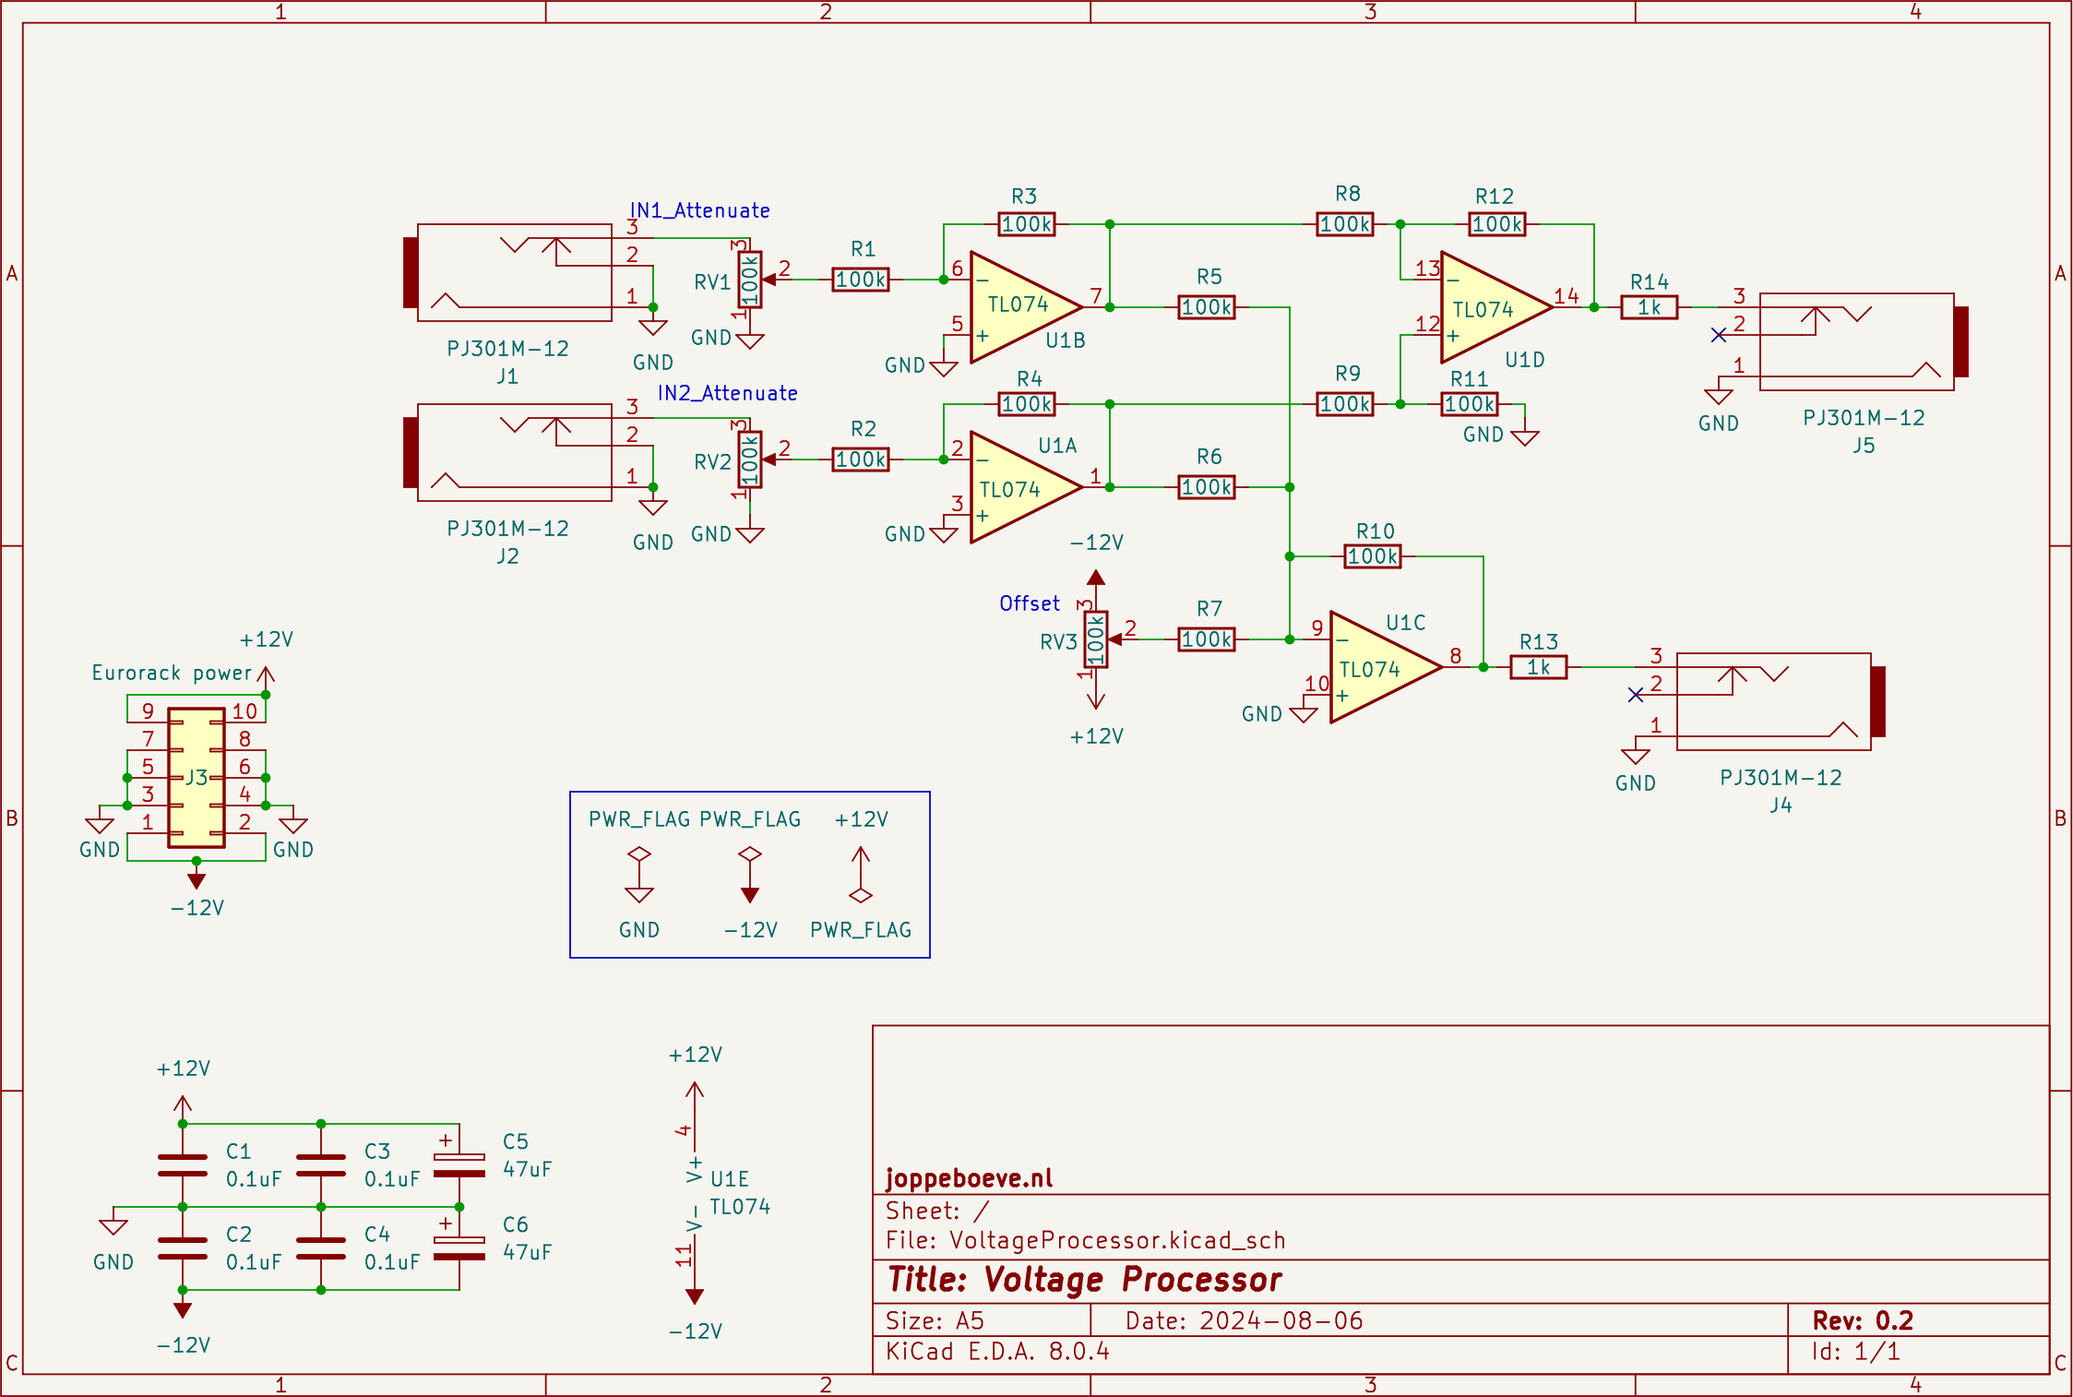
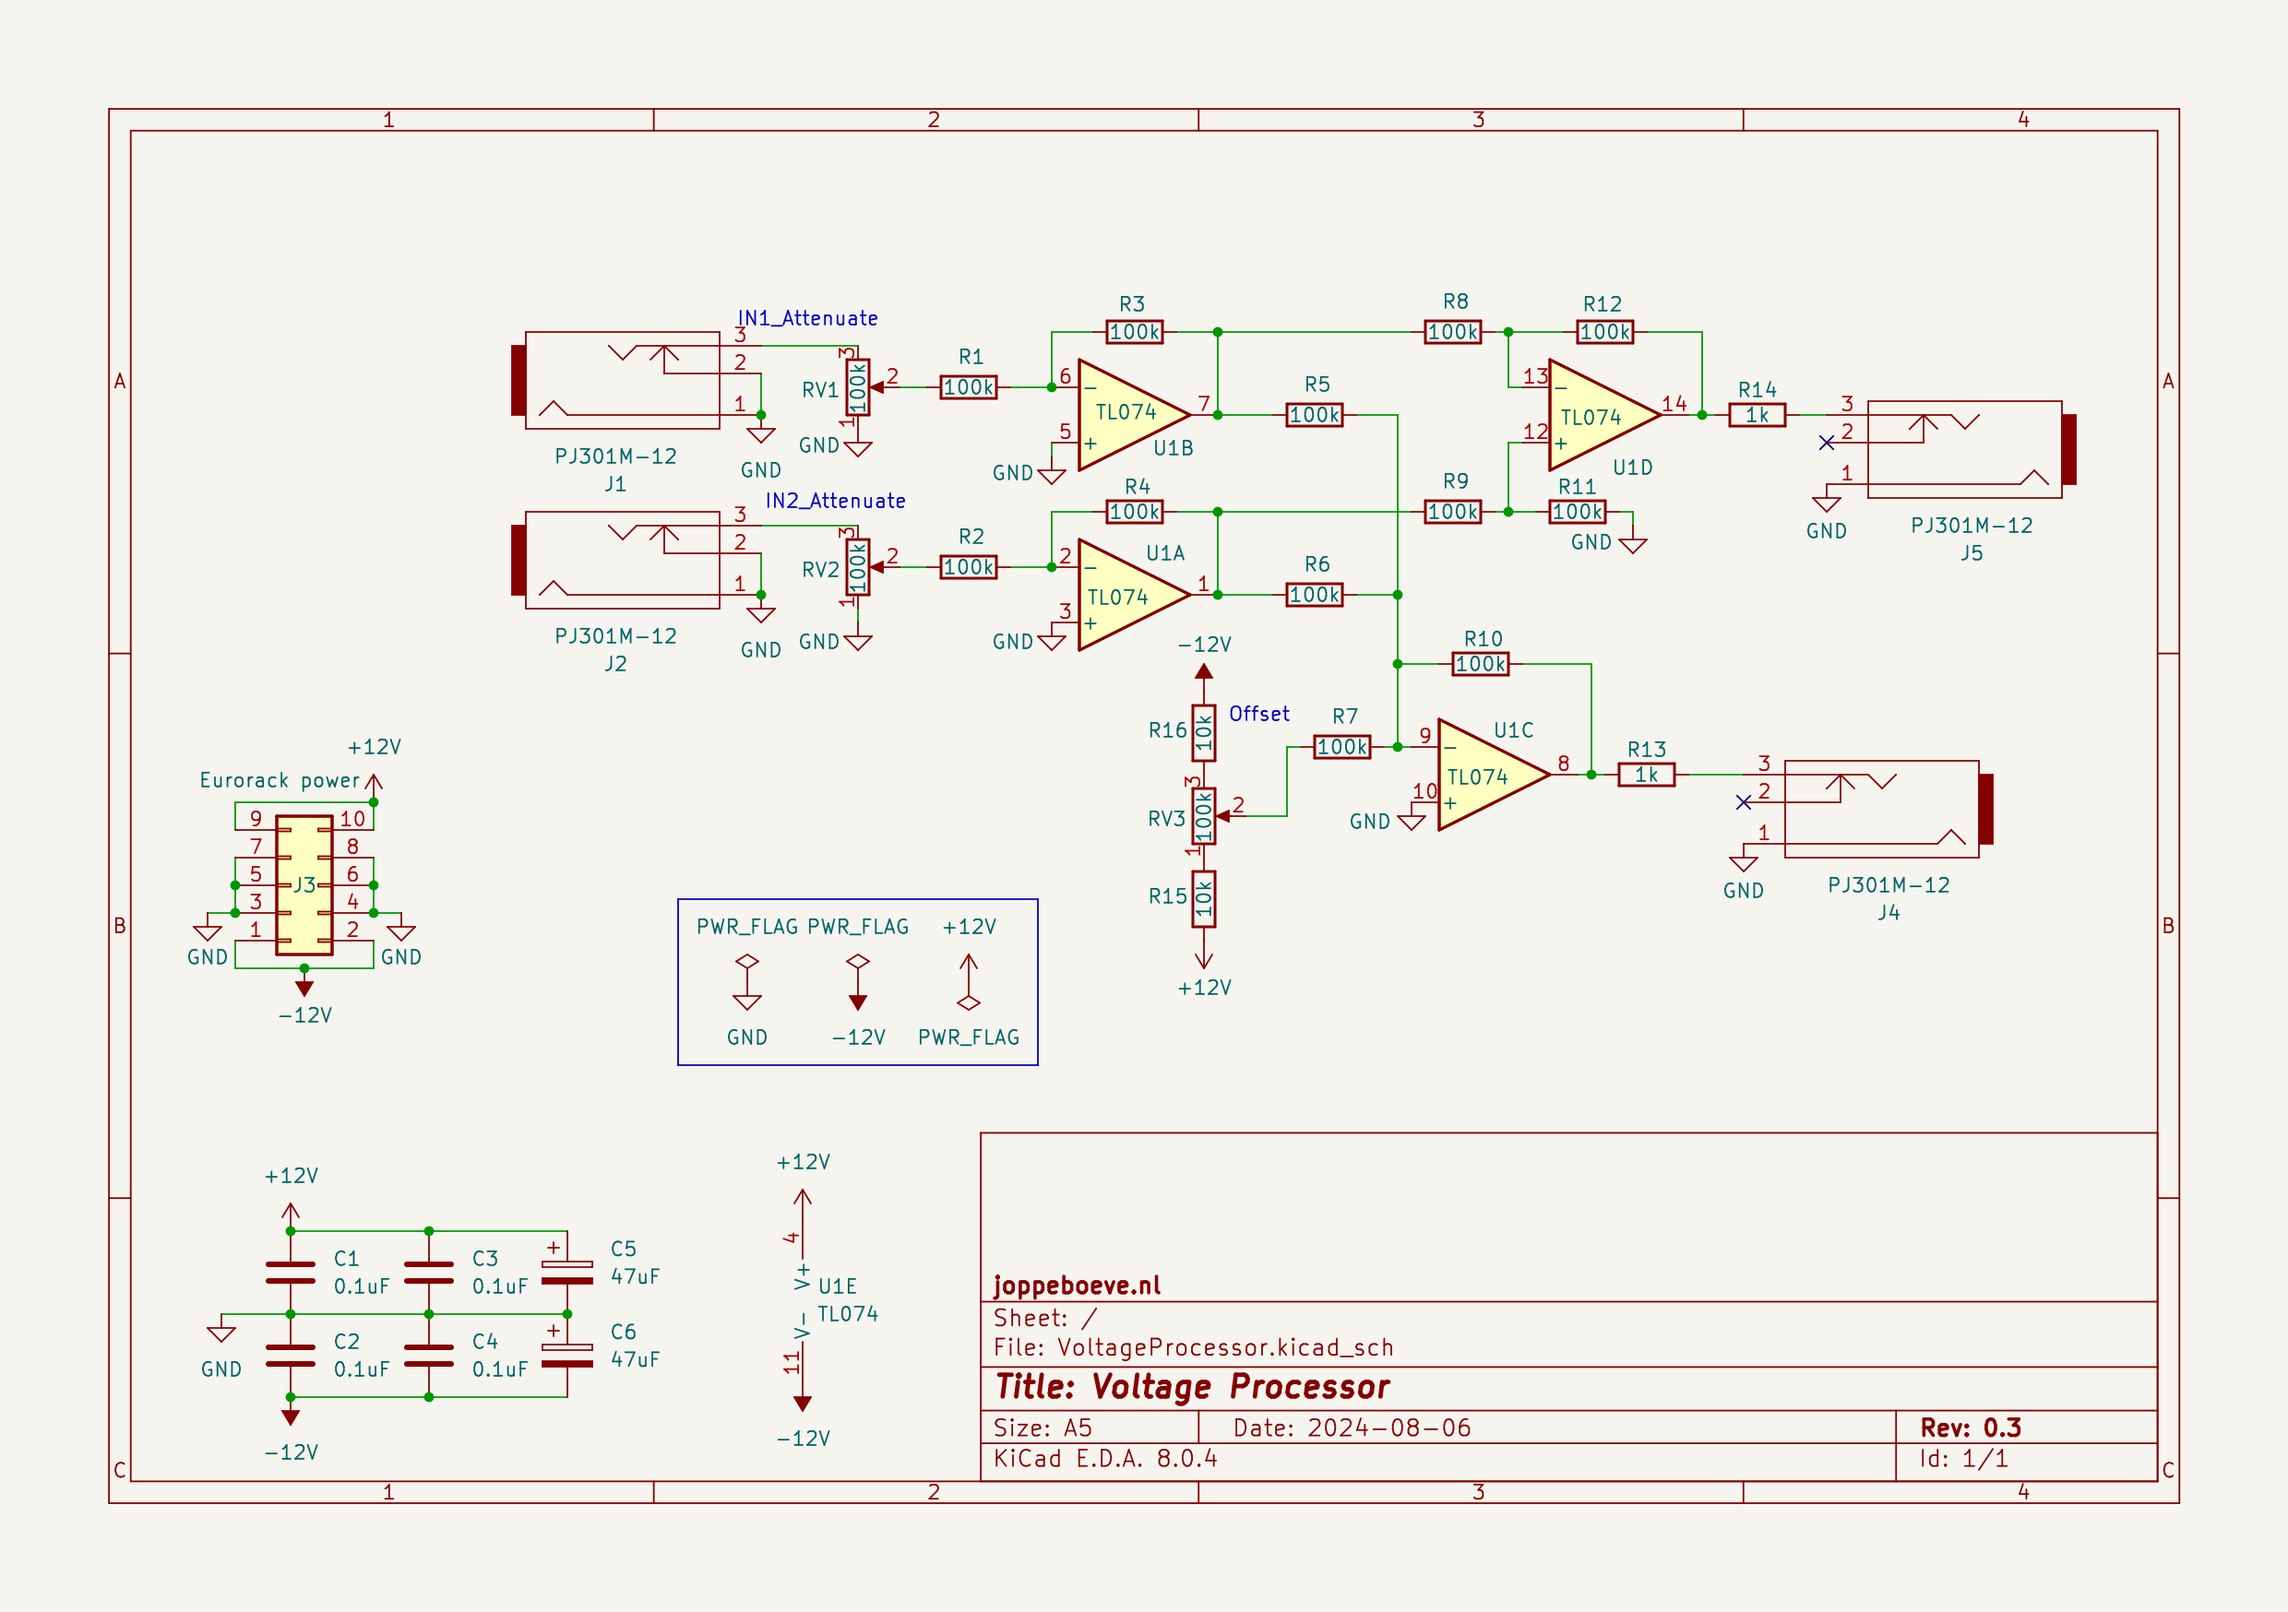
Change schematic page to `rev 0.3` Add BOM Change README

diff --git a/README.md b/README.md
@@ -12,28 +12,23 @@ This module does just that, I indend to just use 1 CV input with the beatstep an
 This is my second KiCad project in a long time so the routing is not the best :)
 Measured the current consumption at 1mA @ +12V and 7mA @ -12V
 
-### rev 0.2 Patches
-- DC Offset potmeter range is now `+-10` instead of the rail-rail voltage.
 
-### rev 0.1 patches
-- Flip eurorack power connector around y-axis, I currently use a flipped power cable as a workaround.
-- Switch `U1B` and `U1B` terminals by adding jumper wire and cutting trace.
-- J4 and J5 output should be on pin 3 instead of pin 2. fix by adding jumper wire.
-
-
-### Todo
-- [x] All of the `rev 0.1 patches`
-- [ ] Fix jack hole should be 6mm instead of 5.3mm.
-- [x] DC Offset potmeter compensate for opamp rail-rail offset which is around 1.3v
-- [x] Add polarity symbol in C5 and C6.
-- [x] Switch RV1 and RV2 twisting direction.
-- [ ] Think about more ergonomic potmeter position.
-- [x] Front panel
-- [x] Produce and test rev 0.1
-
-
-### Falstad
+### Falstad simulation
 https://tinyurl.com/26u5qrzk
+
+
+## Bill of materials
+|Reference|Value                        |Qty   |
+|---------|-----------------------------|------|
+|C1,C2,C3,C4|0.1uF                        |4     |
+|C5,C6    |47uF                         |2     |
+|J1,J2,J4,J5|PJ301M-12                    |4     |
+|J3       |Eurorack power               |1     |
+|R1,R2,R3,R4,R5,R6,R7,R8,R9,R10,R11,R12|100k                         |12    |
+|R13,R14  |1k                           |2     |
+|R15,R16  |10k                          |2     |
+|RV1,RV2,RV3|100k                         |3     |
+|U1       |TL074                        |1     |
 
 
 ## Schematic
@@ -45,4 +40,25 @@ https://tinyurl.com/26u5qrzk
 ![alt text](https://raw.githubusercontent.com/JopjeKnopje/VoltageProcessor/main/images/3d_back_hi.png)
 
 ![alt text](https://raw.githubusercontent.com/JopjeKnopje/VoltageProcessor/main/images/front_panel_hi.png)
+
+
+### rev 0.2 -> 0.3 patches
+- DC Offset potmeter range is now `+-10` instead of the rail-rail voltage.
+
+### rev 0.1 -> 0.2 patches
+- Flip eurorack power connector around y-axis, I currently use a flipped power cable as a workaround.
+- Switch `U1B` and `U1B` terminals by adding jumper wire and cutting trace.
+- J4 and J5 output should be on pin 3 instead of pin 2. fix by adding jumper wire.
+
+
+## Todo
+- [x] All of the `rev 0.1 patches`
+- [ ] Fix jack hole should be 6mm instead of 5.3mm.
+- [x] DC Offset potmeter compensate for opamp rail-rail offset which is around 1.3v
+- [x] Add polarity symbol in C5 and C6.
+- [x] Switch RV1 and RV2 twisting direction.
+- [ ] Think about more ergonomic potmeter position.
+- [x] Front panel
+- [x] Produce and test rev 0.1
+
 
